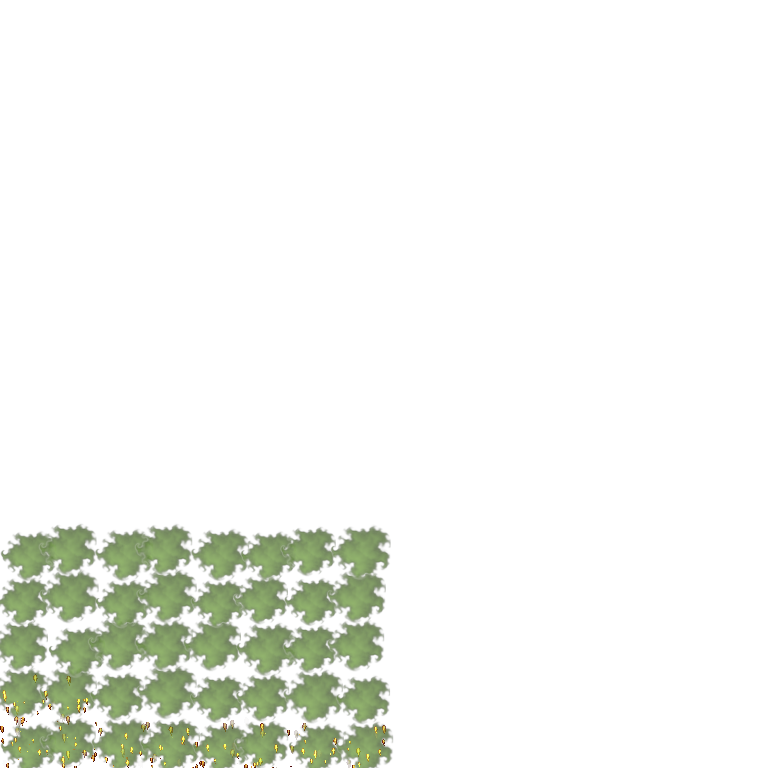
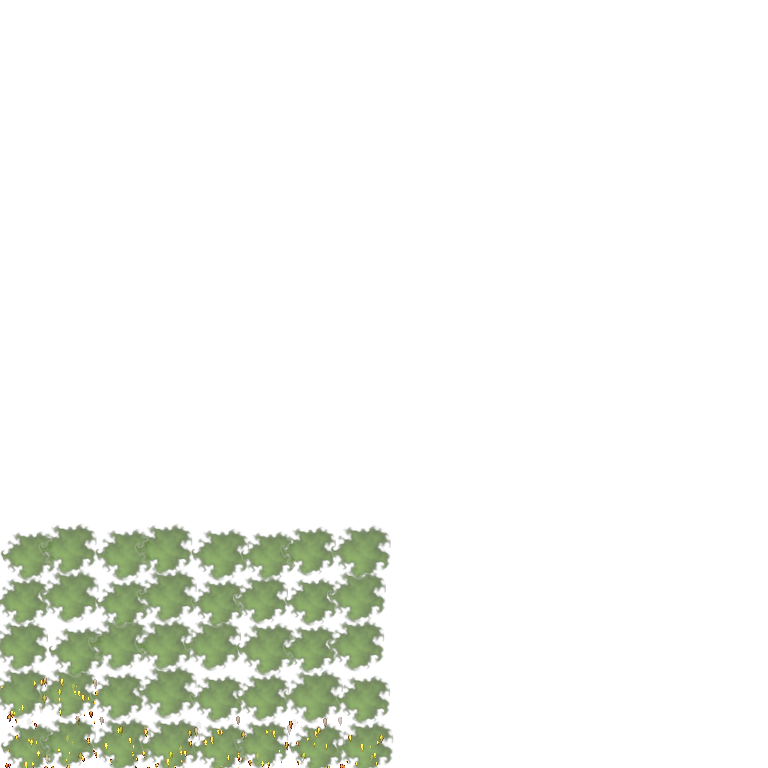
Batch additive fire sprites without altering particle appearance

Changed region(s): [[0.125, 0.9375, 0.5, 1.0], [0.0312, 0.875, 0.125, 1.0], [0.0, 0.9062, 0.0312, 0.9688]]

diff --git a/core/src/main/java/com/shatteredpixel/shatteredpixeldungeon/effects/FireParticleBatch.java b/core/src/main/java/com/shatteredpixel/shatteredpixeldungeon/effects/FireParticleBatch.java
@@ -1,0 +1,101 @@
+// SPDX-License-Identifier: GPL-3.0-or-later
+package com.shatteredpixel.shatteredpixeldungeon.effects;
+
+import com.watabou.gltextures.SmartTexture;
+import com.watabou.glwrap.Blending;
+import com.watabou.glwrap.Quad;
+import com.watabou.glwrap.Vertexbuffer;
+import com.watabou.noosa.Gizmo;
+import com.watabou.noosa.Group;
+import com.watabou.noosa.Image;
+import com.watabou.noosa.NoosaScript;
+import com.watabou.utils.RectF;
+import java.nio.Buffer;
+import java.nio.FloatBuffer;
+import java.util.ArrayList;
+
+/** Additive flame particles may share draws without changing their simulation. */
+final class FireParticleBatch {
+    private static final int CAPACITY = 512;
+    private final FloatBuffer vertices = Quad.createSet(CAPACITY);
+    private final float[] quad = new float[16];
+    private final float[] identity = {1,0,0,0,0,1,0,0,0,0,1,0,0,0,0,1};
+    private final ArrayList<Batch> batches = new ArrayList<>();
+    private Vertexbuffer buffer;
+
+    private static class Batch {
+        SmartTexture texture;
+        float alpha;
+        final ArrayList<Image> images = new ArrayList<>();
+    }
+
+    boolean draw(Group owner, ArrayList<Gizmo> members) {
+        // Fall back for an unusual particle or an explicit per-particle camera.
+        // The ordinary FlameParticle/Ember pair has white tint and zero rotation.
+        for (Gizmo child : members) if (child != null && child.isVisible()) {
+            if (!(child instanceof Image)) return false;
+            Image image = (Image)child;
+            if (image.texture == null || image.angle != 0 || image.camera() != owner.camera()
+                    || image.rm != 1 || image.gm != 1 || image.bm != 1
+                    || image.ra != 0 || image.ga != 0 || image.ba != 0 || image.aa != 0) return false;
+        }
+        for (Batch batch : batches) batch.images.clear();
+        int used = 0;
+        for (Gizmo child : members) if (child != null && child.isVisible()) {
+            Image image = (Image)child;
+            int slot = 0;
+            while (slot < used && (batches.get(slot).texture != image.texture
+                    || batches.get(slot).alpha != image.am)) slot++;
+            if (slot == used) {
+                if (used == batches.size()) batches.add(new Batch());
+                Batch batch = batches.get(used++);
+                batch.texture = image.texture;
+                batch.alpha = image.am;
+            }
+            batches.get(slot).images.add(image);
+        }
+        if (used == 0) return true;
+        NoosaScript script = NoosaScript.get();
+        script.camera(owner.camera());
+        script.uModel.valueM4(identity);
+        Blending.setLightMode();
+        try {
+            for (int slot = 0; slot < used; slot++) {
+                Batch batch = batches.get(slot);
+                batch.texture.bind();
+                script.lighting(1,1,1,batch.alpha,0,0,0,0);
+                ((Buffer)vertices).clear();
+                int count = 0;
+                for (Image image : batch.images) {
+                    RectF uv = image.frame();
+                    float x = (image.x + image.origin.x) - image.origin.x * image.scale.x;
+                    float y = (image.y + image.origin.y) - image.origin.y * image.scale.y;
+                    Quad.fill(quad, x, x+image.width(), y, y+image.height(),
+                            image.flipHorizontal ? uv.right : uv.left,
+                            image.flipHorizontal ? uv.left : uv.right,
+                            image.flipVertical ? uv.bottom : uv.top,
+                            image.flipVertical ? uv.top : uv.bottom);
+                    vertices.put(quad);
+                    if (++count == CAPACITY) {
+                        flush(script, count);
+                        ((Buffer)vertices).clear();
+                        count = 0;
+                    }
+                }
+                if (count > 0) flush(script, count);
+            }
+        } finally {
+            Blending.setNormalMode();
+        }
+        return true;
+    }
+
+    private void flush(NoosaScript script, int count) {
+        ((Buffer)vertices).flip();
+        if (buffer == null) buffer = new Vertexbuffer(vertices);
+        else buffer.updateVertices(vertices);
+        script.drawQuadSet(buffer, count, 0);
+    }
+
+    void destroy() { if (buffer != null) buffer.delete(); }
+}

diff --git a/desktop/src/main/java/com/shatteredpixel/shatteredpixeldungeon/desktop/DesktopSmokeProbe.java b/desktop/src/main/java/com/shatteredpixel/shatteredpixeldungeon/desktop/DesktopSmokeProbe.java
@@ -1114,6 +1114,30 @@ final class DesktopSmokeProbe extends ShatteredPixelDungeon {
                 if(i>=0)millis[i]=ms;if(i==120){Pixmap image=Pixmap.createFromFrameBuffer(0,0,768,768);PixmapIO.writePNG(Gdx.files.absolute("verification/effects-on.png"),image);image.dispose();}buffer.end();
             }
             double average=java.util.Arrays.stream(millis).average().getAsDouble();java.util.Arrays.sort(millis);double p95=millis[227];
+            java.lang.reflect.Field batchField=BlobEmitter.class.getDeclaredField("fireBatch");batchField.setAccessible(true);
+            Object fireBatch=batchField.get(RecoveryChecks.members(fx).get(1));
+            if(fireBatch==null)throw new AssertionError("31 fire batching did not execute");
+            java.lang.reflect.Field batchBuffer=fireBatch.getClass().getDeclaredField("buffer");batchBuffer.setAccessible(true);
+            if(batchBuffer.get(fireBatch)==null)throw new AssertionError("31 fire batching fell back to individual draws");
+            // Compare the unchanged particles with individual draws outside the timing sample.
+            buffer.begin();Pixmap batched=Pixmap.createFromFrameBuffer(0,0,768,768);
+            Gdx.gl.glClear(Gdx.gl.GL_COLOR_BUFFER_BIT);com.watabou.glwrap.Texture.clear();
+            com.watabou.noosa.NoosaScript.get().resetCamera();
+            RecoveryChecks.members(fx).get(0).draw();com.watabou.glwrap.Blending.setLightMode();
+            for(com.watabou.noosa.Gizmo particle:RecoveryChecks.members((Group)RecoveryChecks.members(fx).get(1)))
+                if(particle!=null&&particle.isVisible())particle.draw();
+            com.watabou.glwrap.Blending.setNormalMode();
+            Pixmap individual=Pixmap.createFromFrameBuffer(0,0,768,768);buffer.end();
+            int maxChannelDifference=0;
+            for(int y=0;y<768;y++)for(int x=0;x<768;x++) {
+                int a=batched.getPixel(x,y),b=individual.getPixel(x,y);
+                for(int shift=0;shift<32;shift+=8)maxChannelDifference=Math.max(maxChannelDifference,
+                        Math.abs(((a>>>shift)&255)-((b>>>shift)&255)));
+            }
+            batched.dispose();individual.dispose();
+            // CPU/GPU transform rounding and additive accumulation can differ by one byte.
+            if(maxChannelDifference>2)failures.add("31 batched fire differs from individual draws: "+maxChannelDifference);
+            System.out.println("TEST 31 FIRE BATCH: individual-render max channel difference="+maxChannelDifference);
             if(average>=2||p95>=2)failures.add("31 enhanced mean="+average+"ms p95="+p95+"ms must both be < 2ms");
             System.out.printf(java.util.Locale.ROOT,"TEST 31: off pixel differences=%d; 40 gas + 10 fire cells, 240 GPU-completed frames mean=%.4fms p95=%.4fms failures=%d%n",changed,average,p95,failures.size());
             fx.destroy();System.arraycopy(fov,0,Dungeon.level.heroFOV,0,fov.length);buffer.dispose();

diff --git a/core/src/main/java/com/shatteredpixel/shatteredpixeldungeon/effects/BlobEmitter.java b/core/src/main/java/com/shatteredpixel/shatteredpixeldungeon/effects/BlobEmitter.java
@@ -31,6 +31,7 @@ import com.watabou.utils.RectF;
 public class BlobEmitter extends Emitter {
 	
 	private Blob blob;
+	private FireParticleBatch fireBatch;
 	
 	public BlobEmitter( Blob blob ) {
 		
@@ -47,6 +48,20 @@ public class BlobEmitter extends Emitter {
             if(child!=null&&!(child instanceof EnhancedEffects.GasLayer))child.visible=!EnhancedEffects.enabled();
     }
     public RectF bound = new RectF(0, 0, 1, 1);
+
+    @Override public void draw() {
+        if (EnhancedEffects.enabled() && lightMode
+                && factory == com.shatteredpixel.shatteredpixeldungeon.effects.particles.FlameParticle.FACTORY) {
+            if (fireBatch == null) fireBatch = new FireParticleBatch();
+            if (fireBatch.draw(this, members)) return;
+        }
+        super.draw();
+    }
+
+    @Override public void destroy() {
+        if (fireBatch != null) fireBatch.destroy();
+        super.destroy();
+    }
 	
 	@Override
 	protected void emit( int index ) {

diff --git a/verification/ACCEPTANCE.md b/verification/ACCEPTANCE.md
@@ -2,7 +2,7 @@
 
 Art-source checkpoint: `df8104413`. Corrected release tag: `v1.8.1-readability`. Exact delivered commit and CI results are reported with delivery; the enforced test-45 failure prevents a full-green claim.
 
-The prematurely published `v1.8.0-readability` tag and [its failing CI run](https://github.com/BryanHartling/grimhollow/actions/runs/35945765921) remain available. Linux test 31 failed (mean 2.2395ms / p95 3.0285ms), in addition to test 45, although local timing passed. The 1.8.1 patch halves translucent gas-cloud overdraw without changing the 2ms gate. Patch local output: `TEST 31: off pixel differences=0; 40 gas + 10 fire cells, 240 GPU-completed frames mean=0.6198ms p95=0.8017ms failures=0`.
+The prematurely published `v1.8.0-readability` tag and [its failing CI run](https://github.com/BryanHartling/grimhollow/actions/runs/35945765921) remain available. Linux test 31 failed (mean 2.2395ms / p95 3.0285ms), in addition to test 45, although local timing passed. Halving gas alone still failed Linux p95 at 2.5816ms in run 35947743192. The final 1.8.1 patch also batches equal-alpha flame/ember particles without changing their number or simulation, or the 2ms gate. The individual-draw pixel reference differs by zero in the local run. Patch local output: `TEST 31: off pixel differences=0; 40 gas + 10 fire cells, 240 GPU-completed frames mean=0.4672ms p95=0.6894ms failures=0`.
 
 Local commands: `gradlew.bat core:test core:smokeRun -PsmokeUpstream=true --no-daemon --console=plain`; `gradlew.bat desktop:dist android:assembleDebug core:smokeRun -PsmokeClass=PSYCHIC --no-daemon --console=plain`; native `--smoke-sewers` with `grimhollow.interfaceReview=true` in both orientations, `geometryTests=true`, `effectsTests=true`, and `recovery=true` plus `fogTests=true` across regions 0-4; `python tools/recovery_assets.py --check`; `python tools/recovery_checks.py --jar desktop/build/libs/desktop-1.8.0.jar`; `python tools/recovery_checks.py --all-regions`. Actual outputs, including intermediate failures, remain in `clean-build.log`.
 
@@ -42,7 +42,7 @@ This table combines current results above with explicitly retained checkpoint co
 | 28 | RETIRED | Superseded by recovery: rendered-cache rebuild no longer produces the restored shipping world/characters. |
 | 29 | RETIRED | Superseded by recovery: rerendering is prohibited; Blender/cache retained unused. |
 | 30 | RETIRED | Superseded by recovery: generated character hue-distance gate replaced by upstream pixel provenance 44. |
-| 31 | PASS locally; CI pending | v1.8.1: off pixel differences=0; 40 gas + 10 fire cells, 240 GPU-completed frames: mean=0.6198ms p95=0.8017ms, failures=0. v1.8.0 Linux failed; final patch CI results are reported with delivery. |
+| 31 | PASS locally; CI pending | v1.8.1: off pixel differences=0; 40 gas + 10 fire cells, 240 GPU-completed frames: mean=0.4672ms p95=0.6894ms, failures=0. v1.8.0 Linux failed; final patch CI results are reported with delivery. |
 | 32 | PASS | Three scorch sizes, actual floor fire expiration and water/chasm rejection: failures=0. |
 | 33 | PASS | Existing Enchanter trade knowledge, armor inscriptions and persistent library scenarios pass in the nine-class run. Native library coverage is retained and repeated by CI. |
 | 34 | PASS | Old/future version rejection, portrait exception and deletion: failures=0. |

diff --git a/README.md b/README.md
@@ -1,6 +1,6 @@
 # Grimhollow
 
-**Readability and inspection v1.8.1:** locked doors have painted lock markers, ground loot has contrasting edges, gas has soft cloud boundaries, and wall water/smoke, altar motes and all 98 awards use sharper painted detail. Known southern wall faces remain visible at the edge of unexplored terrain. Press Examine twice to keep inspecting tiles, shop goods and inventory; press again or Escape/Back from the dungeon to exit. Hold Examine to search. The Focus Crystal adds Grasp reach at levels 3/7 and longer Glimpse at levels 5/10. The patch halves gas-cloud overdraw after v1.8.0 exceeded the Linux effects budget. [Visual review](verification/painted-world.html), [verification and retained limitations](verification/ACCEPTANCE.md).
+**Readability and inspection v1.8.1:** locked doors have painted lock markers, ground loot has contrasting edges, gas has soft cloud boundaries, and wall water/smoke, altar motes and all 98 awards use sharper painted detail. Known southern wall faces remain visible at the edge of unexplored terrain. Press Examine twice to keep inspecting tiles, shop goods and inventory; press again or Escape/Back from the dungeon to exit. Hold Examine to search. The Focus Crystal adds Grasp reach at levels 3/7 and longer Glimpse at levels 5/10. The patch halves gas-cloud overdraw and batches unchanged flame/ember particles after v1.8.0 exceeded the Linux effects budget. [Visual review](verification/painted-world.html), [verification and retained limitations](verification/ACCEPTANCE.md).
 
 **Plants and inscriptions v1.7.0:** thirteen painted sprouted plants and 113 unique new-class skill icons complete this pass. Enchanter armor inscription now has three starter glyphs; all learned inscriptions remain available across floors and saves. The full library scrolls and offers descriptions. Only the Rune Etching's active effect rerolls. See [the visual review](verification/painted-world.html), [acceptance results](verification/ACCEPTANCE.md), and [exact art prompts](tools/painted/botany-skills.json).
 

diff --git a/KNOWN_ISSUES.md b/KNOWN_ISSUES.md
@@ -1,6 +1,6 @@
 # Known issues
 
-- The prematurely published v1.8.0-readability tag is preserved: Linux test 31 failed at mean 2.2395ms / p95 3.0285ms despite passing locally. The v1.8.1 patch halves gas-cloud overdraw; local test 31 passes at mean 0.6198ms / p95 0.8017ms. Exact patch-head CI results are reported with delivery; the 2ms gate is unchanged.
+- The prematurely published v1.8.0-readability tag is preserved: Linux test 31 failed at mean 2.2395ms / p95 3.0285ms despite passing locally. Halving gas alone still failed Linux p95 at 2.5816ms in run 35947743192. The final v1.8.1 patch also batches unchanged flame/ember particles; local test 31 passes at mean 0.4672ms / p95 0.6894ms, with zero channel difference from individual draws. Exact patch-head CI results are reported with delivery; the 2ms gate is unchanged.
 - Inscription migration preserves knowledge stored in an older save; it cannot reconstruct random sigils discarded by earlier versions before that save. Identified enemy-curse casting remains an unimplemented design proposal.
 
 - Test 45 retains its 0.12 luminance / 40-degree hue thresholds. Fresh Windows captures after the wall fix fail 34/82 comparisons: Sewers 11/21, Prison 1/10, Caves 8/21, City 5/15, Halls 9/15. Restoring known wall faces changes the sampled pixels; no terrain palette or threshold was changed to chase this metric. The gate remains enforced in CI and human readability review is still required.

diff --git a/CHANGES.md b/CHANGES.md
@@ -1,6 +1,7 @@
 # Gas rendering cost - v1.8.1
 
 - Use one soft cloud per gas cell, overlapping its neighbors, instead of two overlapping clouds at each cell. This halves cloud overdraw while keeping the rounded edges, slow drift, color and mechanical coverage.
+- Batch equal-alpha additive flame/ember sprites while retaining every particle and its motion; an in-renderer comparison checks the individual-draw reference. Halving gas alone still missed Linux p95 (2.5816ms); the unchanged effects gate covers both gas and fire.
 - The v1.8.0 Linux CI run exceeded the unchanged 2ms effect budget (mean 2.2395ms, p95 3.0285ms); its tag and failing run remain available. The patch release supersedes that prematurely tagged state.
 
 # Readability and repeated inspection - v1.8.0
